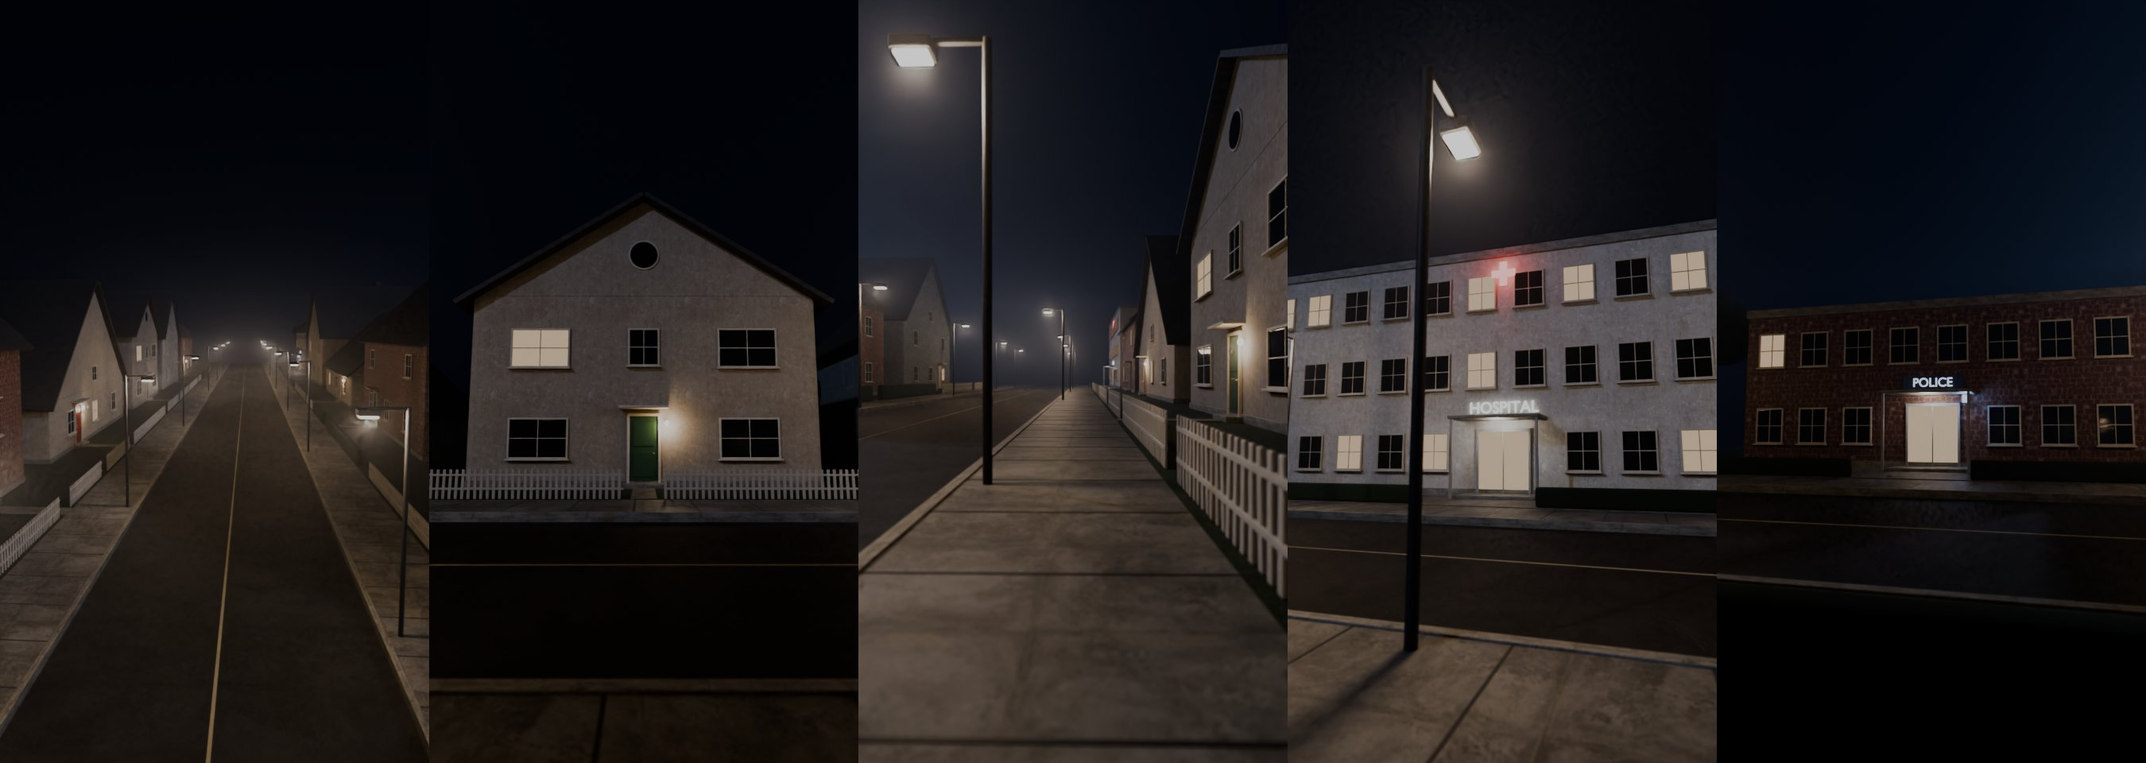
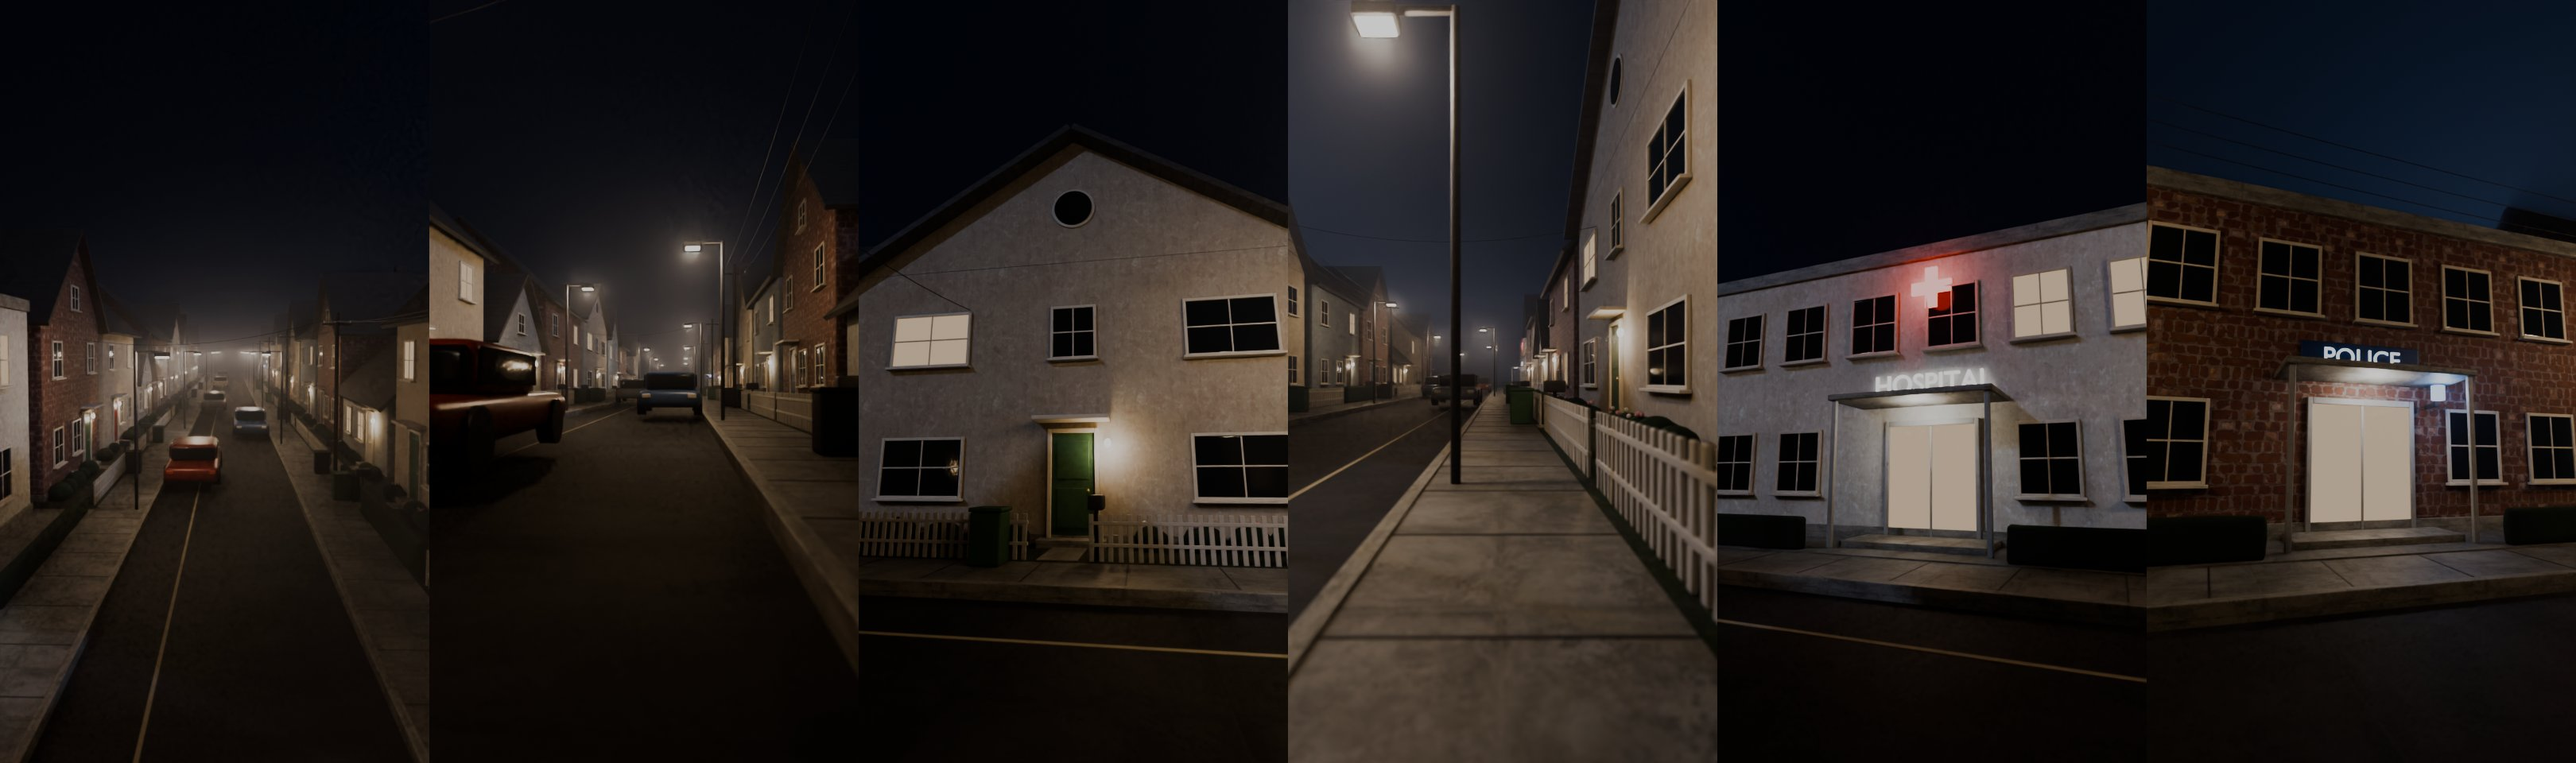
Village v2: narrow lane, smaller houses close together, parked cars, bins, mailboxes, bushes, power poles and wires, back row of rooftops; routes re-checked (57 legs)

diff --git a/YTB/horror/blender/library/sets/village/village.py b/YTB/horror/blender/library/sets/village/village.py
@@ -110,9 +110,9 @@ def front_door(fh, u, mat, porch_on, h=0.2, w=0.08):
 
 
 # ------------------------------------------------------------------ one house
-def house(name, x0, x1, side, depth, storeys, roof, facade, door_mat, lit, porch_on):
+def house(name, x0, x1, side, depth, storeys, roof, facade, door_mat, lit, porch_on, y_front=None):
     M = K.M; w = x1 - x0; cx = (x0 + x1) / 2
-    y_front = VP.FRONT_N if side == 'N' else VP.FRONT_S
+    y_front = y_front if y_front is not None else (VP.FRONT_N if side == 'N' else VP.FRONT_S)
     h = PR.holder(name, cx, y_front, 0 if side == 'N' else 180)        # local: front at y 0 facing -y, house toward +y
     E = storeys * U
     PR.part(h, name + '_body', -w / 2, w / 2, 0.0, depth, 0.0, E, facade, bevel=0.002)
@@ -137,7 +137,8 @@ def house(name, x0, x1, side, depth, storeys, roof, facade, door_mat, lit, porch
     PR.part(h, name + '_chimney', ch[0] - 0.03, ch[0] + 0.03, ch[1] - 0.03, ch[1] + 0.03, E, R + 0.08, 'brick_wall', bevel=0.002)
     # the front: a door and windows on each storey; side walls get one or two dark windows
     fh = face_holder(h, name + '_front', (0, 0, 0), 0)
-    du = VP.door_x([r[0] for r in VP.HOUSES].index(name))[1]
+    names = [r[0] for r in VP.HOUSES]
+    du = VP.door_x(names.index(name))[1] if name in names else 0.0
     front_door(fh, du, door_mat, porch_on)
     li = list(lit) + [0] * 8; k = 0
     for s in range(storeys):
@@ -267,7 +268,7 @@ def tree(x, y, s=1.0, seed=0):
 
 
 def street_lamp(x, side):
-    M = K.M; y = 0.63 if side == 'N' else -0.03; d = -1 if side == 'N' else 1
+    M = K.M; y = VP.SIDEWALK_N[0] + 0.03 if side == 'N' else VP.SIDEWALK_S[1] - 0.03; d = -1 if side == 'N' else 1
     K._to(K.cylinder('lamp_post', 0.0045, 0.42, (x, y, 0.21), mat=M['iron']))
     K.block('lamp_arm', x - 0.003, x + 0.003, min(y, y + d * 0.07), max(y, y + d * 0.07), 0.415, 0.421, M['iron'], bevel=0.001)
     K.block('lamp_head', x - 0.014, x + 0.014, y + d * 0.07 - 0.02, y + d * 0.07 + 0.02, 0.405, 0.418, M['iron'], bevel=0.003)
@@ -309,41 +310,135 @@ def street():
     K.block('centre_line', X0, X1, 0.297, 0.303, VP.ROAD_Z, VP.ROAD_Z + 0.0004, K.painted('road_paint', (0.32, 0.3, 0.22), rough=0.8), bevel=0)
 
 
+# ------------------------------------------------------------------ street life
+def car(x, y, yaw, colour, z=VP.ROAD_Z):
+    """an ordinary small parked car: body, cabin with dark glass, four wheels, lights off"""
+    M = K.M; h = PR.holder('parked_car', x, y, yaw, z=z)                  # wheels on the road, not the sidewalk level
+    PR.part(h, 'car_body', -0.21, 0.21, -0.085, 0.085, 0.022, 0.07, colour, bevel=0.018)
+    PR.part(h, 'car_cabin', -0.11, 0.08, -0.075, 0.075, 0.066, 0.122, colour, bevel=0.016)
+    for sy in (-1, 1): PR.part(h, 'car_window', -0.1, 0.07, sy * 0.0755 - 0.0012, sy * 0.0755 + 0.0012, 0.078, 0.114, 'glass_dark', bevel=0.004)
+    PR.part(h, 'car_windscreen', 0.074, 0.083, -0.068, 0.068, 0.074, 0.116, 'glass_dark', bevel=0.004)
+    PR.part(h, 'car_rear_window', -0.115, -0.106, -0.068, 0.068, 0.076, 0.114, 'glass_dark', bevel=0.004)
+    for wx in (-0.13, 0.13):
+        for sy in (-1, 1):
+            wh = K.cylinder('car_wheel', 0.03, 0.022, (0, 0, 0), rot=(math.pi / 2, 0, 0), mat=M['iron'], verts=24); K._to(wh); K.attach(wh, h)
+            wh.location = (wx, sy * 0.078, 0.03); wh.rotation_euler = (math.pi / 2, 0, 0)
+    for sy in (-1, 1):
+        PR.part(h, 'car_headlight', 0.205, 0.212, sy * 0.06 - 0.012, sy * 0.06 + 0.012, 0.048, 0.06, 'bulb_off', bevel=0.003)
+        PR.part(h, 'car_taillight', -0.212, -0.205, sy * 0.065 - 0.01, sy * 0.065 + 0.01, 0.05, 0.06, 'red', bevel=0.002)
+    return h
+
+
+def wheelie_bin(x, y, mat):
+    K.block('bin', x - 0.022, x + 0.022, y - 0.024, y + 0.024, 0.0, 0.07, K.M[mat], bevel=0.003)
+    K.block('bin_lid', x - 0.024, x + 0.024, y - 0.026, y + 0.026, 0.07, 0.076, K.M[mat], bevel=0.002)
+
+
+def mailbox(x, y):
+    K._to(K.cylinder('mailbox_post', 0.003, 0.07, (x, y, 0.035), mat=K.M['wood']))
+    K.block('mailbox', x - 0.012, x + 0.012, y - 0.02, y + 0.02, 0.07, 0.092, K.M['iron'], bevel=0.004)
+
+
+def bushes(x0, x1, y, door_x, seed):
+    r = random.Random(seed); x = x0 + 0.04
+    while x < x1 - 0.04:
+        if abs(x - door_x) > 0.08:
+            b = K.sphere('bush', r.uniform(0.022, 0.034), (x, y, 0.018), scale=(1.2, 1, 0.9), mat=K.M['hedge']); K._to(b)
+            K.add_lumps(b, 0.004, size=0.015)
+            if r.random() < 0.4:                                       # a few pale flowers
+                for _ in range(4):
+                    f = K.sphere('flower', 0.0035, (x + r.uniform(-0.02, 0.02), y + r.uniform(-0.015, 0.015), 0.038 + r.uniform(0, 0.008)),
+                                 mat=K.M[r.choice(('flower_pink', 'flower_white'))]); K._to(f)
+        x += r.uniform(0.06, 0.1)
+
+
+def wire(name, a, b, sag=0.03, n=12):
+    cu = bpy.data.curves.new(name, 'CURVE'); cu.dimensions = '3D'; cu.bevel_depth = 0.0007; cu.bevel_resolution = 1
+    sp = cu.splines.new('POLY'); sp.points.add(n)
+    for i in range(n + 1):
+        u = i / n; p = Vector(a).lerp(Vector(b), u); p.z -= sag * 4 * u * (1 - u)
+        sp.points[i].co = (p.x, p.y, p.z, 1)
+    ob = bpy.data.objects.new(name, cu); ob.data.materials.append(K.M['iron']); K._to(ob); return ob
+
+
+def power_poles(xs, y):
+    M = K.M; tops = []
+    for x in xs:
+        K._to(K.cylinder('power_pole', 0.006, 0.54, (x, y, 0.27), mat=M['bark']))
+        K.block('pole_crossarm', x - 0.003, x + 0.003, y - 0.045, y + 0.045, 0.5, 0.507, M['bark'], bevel=0.001)
+        for dy in (-0.04, 0.0, 0.04): K._to(K.cylinder('insulator', 0.0018, 0.008, (x, y + dy, 0.511), mat=M['porcelain']))
+        tops.append(x)
+    for a, b in zip(tops, tops[1:]):
+        for dy in (-0.04, 0.0, 0.04): wire('power_wire', (a, y + dy, 0.515), (b, y + dy, 0.515), sag=0.035)
+    for x in tops[1::2]:                                               # service wires across the lane to the north houses
+        wire('service_wire', (x, y + 0.04, 0.515), (x + 0.15, VP.FRONT_N + 0.05, 0.47), sag=0.05)
+
+
+def back_row(side, y_front, seed):
+    """a second row of houses behind the street (seen between the front houses and over their roofs)"""
+    r = random.Random(seed); x = -4.9
+    facades = ('brick_wall', 'plaster_cream', 'siding_grey', 'plaster_blue', 'siding_cream')
+    i = 0
+    while x < 4.6:
+        w = r.uniform(0.6, 0.8)
+        house(f'back_{side}_{i}', x, x + w, side, r.uniform(0.7, 0.8), r.choice((1, 2, 2)), r.choice(('side', 'front')),
+              r.choice(facades), 'door_black', tuple(int(r.random() < 0.15) for _ in range(5)), False, y_front=y_front)
+        x += w + r.uniform(0.06, 0.14); i += 1
+
+
 def build():
     materials()
+    M = K.M
+    for name, col in (('car_red', (0.22, 0.04, 0.035)), ('car_grey', (0.18, 0.2, 0.22)), ('car_cream', (0.5, 0.46, 0.36)),
+                      ('car_green', (0.05, 0.12, 0.08)), ('car_blue', (0.06, 0.1, 0.2)), ('bin_green', (0.04, 0.1, 0.05)),
+                      ('bin_black', (0.02, 0.02, 0.022)), ('flower_pink', (0.5, 0.25, 0.3)), ('flower_white', (0.6, 0.6, 0.55))):
+        M[name] = K.painted(name, col, rough=0.35 if name.startswith('car') else 0.7)
     before = set(bpy.data.objects)
     street()
-    for args in VP.HOUSES:
+    for i, args in enumerate(VP.HOUSES):
         house(*args)
         name, x0, x1, side = args[:4]
-        door_u = VP.door_x(VP.HOUSES.index(args))[0]
-        garden(x0 - 0.1, x1 + 0.1, side, door_u, hedge=name in ('north_5', 'south_2', 'south_4'))
-    haru_house(); garden(-0.1, 1.15, 'N', VP.HOME_AT[0] + VP.HOME_DOOR_X)
+        dx = VP.door_x(i)[0]
+        garden(x0 - 0.04, x1 + 0.04, side, dx, hedge=name in VP.HEDGED)
+        fy = VP.door_y(side) + (-0.035 if side == 'N' else 0.035)
+        bushes(x0, x1, fy, dx, seed=i)
+        sw = VP.SIDEWALK_N[1] - 0.026 if side == 'N' else VP.SIDEWALK_S[0] + 0.026
+        if i % 3 != 2:
+            wheelie_bin(dx + (0.075 if i % 2 else -0.075), sw, 'bin_green' if i % 2 else 'bin_black')
+        gy = VP.SIDEWALK_N[1] + 0.03 if side == 'N' else VP.SIDEWALK_S[0] - 0.03
+        mailbox(dx + 0.055, gy)
+    haru_house(); hx = VP.HOME_AT[0] + VP.HOME_DOOR_X
+    garden(-0.04, 1.04, 'N', hx); bushes(0.0, 1.0, VP.FRONT_N - 0.035, hx, seed=99); mailbox(hx + 0.055, VP.SIDEWALK_N[1] + 0.03)
+    wheelie_bin(hx - 0.09, VP.SIDEWALK_N[1] - 0.026, 'bin_green')
     for c in VP.CIVIC:                                                 # the hospital and the police station
-        civic(*c); forecourt(c[1] - 0.05, c[2] + 0.05, c[3], VP.civic_door_x(c[0]))
+        civic(*c); forecourt(c[1] - 0.03, c[2] + 0.03, c[3], VP.civic_door_x(c[0]))
     for x in VP.LAMPS_N: street_lamp(x, 'N')
     for x in VP.LAMPS_S: street_lamp(x, 'S')
-    for i, (tx, ty, s) in enumerate(((4.85, -0.8, 1.1), (5.3, -1.2, 1.25), (5.55, -0.65, 0.95), (-5.6, 1.6, 1.2),
-                                     (1.12, 1.9, 0.9), (-1.72, 2.1, 1.0), (2.55, 2.0, 1.1), (-1.6, -1.9, 1.0))):
+    for x, side, col in VP.CARS:                                       # parked along the curbs
+        car(x, VP.ROAD[3] - 0.1 if side == 'N' else VP.ROAD[1] + 0.1, 0 if side == 'N' else 180, col)
+    power_poles(VP.POLES_S, VP.SIDEWALK_S[0] + 0.012)
+    back_row('N', 2.15, 11); back_row('S', -1.45, 12)
+    for i, (tx, ty, s) in enumerate(((4.7, -0.55, 1.0), (5.05, -0.95, 1.2), (4.55, 1.1, 1.0), (-4.95, 1.2, 1.1), (-4.85, -0.75, 1.05),
+                                     (1.05, 1.95, 0.9), (-1.3, 1.75, 1.0), (2.9, 1.8, 1.1), (-2.5, -1.3, 0.95), (0.55, -1.3, 1.0))):
         tree(tx, ty, s, seed=i)
-    # night: a cold low moon (sun lamp), dark blue sky, a thin haze down the street
+    # night: a cold moon (sun lamp), dark blue sky, a thin haze down the lane
     K.world((0.012, 0.022, 0.06), 0.3)
     sun = bpy.data.lights.new('moon_sun', 'SUN'); sun.energy = 1.0; sun.color = (0.5, 0.62, 1.0); sun.angle = math.radians(1.5)
     so = bpy.data.objects.new('moon_sun', sun); K._to(so, 'Lights'); so.rotation_euler = (math.radians(62), 0, math.radians(-35))
     hz = bpy.data.materials.new('street_haze'); hz.use_nodes = True; hn = hz.node_tree.nodes
     hn.remove(hn['Principled BSDF']); pv = hn.new('ShaderNodeVolumePrincipled')
-    pv.inputs['Density'].default_value = 0.06; pv.inputs['Anisotropy'].default_value = 0.5; pv.inputs['Color'].default_value = (0.75, 0.82, 1.0, 1)
+    pv.inputs['Density'].default_value = 0.08; pv.inputs['Anisotropy'].default_value = 0.5; pv.inputs['Color'].default_value = (0.75, 0.82, 1.0, 1)
     hz.node_tree.links.new(pv.outputs[0], hn['Material Output'].inputs['Volume'])
-    bpy.ops.mesh.primitive_cube_add(size=1, location=(0.5, 0.3, 0.6)); b = bpy.context.object; b.name = 'haze'
-    b.location.x = 0.0; b.scale = (12.0, 5.0, 1.25); b.data.materials.append(hz); K._to(b)
+    bpy.ops.mesh.primitive_cube_add(size=1, location=(0.0, 0.2, 0.6)); b = bpy.context.object; b.name = 'haze'
+    b.scale = (11.0, 4.5, 1.25); b.data.materials.append(hz); K._to(b)
     bpy.context.scene.cycles.volume_bounces = 0; bpy.context.scene.cycles.volume_step_rate = 4.0
     # camera marks
-    K.mark('street_overview', (-3.6, 0.25, 0.55), (0.9, 0.55, 0.12), lens=24)
-    K.mark('street_level', (-2.9, 0.12, 0.09), (1.5, 0.55, 0.12), lens=24)
-    K.mark('haru_house', (0.5, -0.25, 0.12), (0.5, 1.08, 0.3), lens=22)
-    K.mark('sidewalk', (1.7, 0.72, 0.1), (-1.5, 0.66, 0.08), lens=24)
-    K.mark('hospital', (-3.75, -0.32, 0.12), (-4.18, 1.08, 0.36), lens=22)
-    K.mark('police', (3.45, 0.95, 0.12), (3.78, -0.5, 0.28), lens=22)
+    K.mark('street_overview', (-4.6, 0.2, 0.42), (0.5, 0.35, 0.14), lens=26)
+    K.mark('street_level', (-3.3, 0.06, 0.075), (1.0, 0.4, 0.13), lens=24)
+    K.mark('haru_house', (0.62, -0.07, 0.11), (0.5, 0.72, 0.3), lens=20)
+    K.mark('sidewalk', (1.5, 0.49, 0.09), (-1.5, 0.5, 0.09), lens=24)
+    K.mark('hospital', (-3.6, -0.05, 0.11), (-3.9, 0.72, 0.28), lens=22)
+    K.mark('police', (3.25, 0.4, 0.1), (3.02, -0.3, 0.24), lens=22)
     return [o for o in bpy.data.objects if o not in before]
 
 

diff --git a/YTB/horror/blender/library/sets/village/village_plan.py b/YTB/horror/blender/library/sets/village/village_plan.py
@@ -1,59 +1,72 @@
-"""Haru's village: one quiet street of ordinary houses (metres at 1:10; +x along the street, +y north).
+"""Haru's village (version 2, denser): a narrow village lane of small houses close together (metres at 1:10; +x
+along the street, +y north).
 
-    south houses (face north)   y -1.62 .. -0.50
-    south gardens               y -0.50 .. -0.20
-    south sidewalk              y -0.20 .. 0.0   (raised 1.5 cm, curb at y 0)
-    road                        y  0.0  .. 0.60  (z -0.015)
-    north sidewalk              y  0.60 .. 0.80
-    north gardens               y  0.80 .. 1.08
-    north houses (face south)   y  1.08 .. (back)
+    south back row              y < -1.25        (rooftops behind the street)
+    south houses (face north)   y -1.10 .. -0.30
+    south gardens               y -0.30 .. -0.14
+    south sidewalk              y -0.14 .. 0.0   (raised 1.5 cm, curb at y 0)
+    road (a lane, cars parked
+    along the north curb)       y  0.0  .. 0.42  (z -0.015)
+    north sidewalk              y  0.42 .. 0.56
+    north gardens               y  0.56 .. 0.72
+    north houses (face south)   y  0.72 .. (back)
 
-Haru's house is the big home (../home) placed with its front wall on y = 1.08 and its left wall on x = 0: build it
-there with home.build() and move it by HOME_AT to walk from the street through her front door into the real rooms.
+Haru's house is the big home (../home): its front wall on y = 0.72, its left wall on x = 0. It is the biggest, oldest
+house on the street; build home.build() and move it by HOME_AT to walk from the street into the real rooms.
 """
+import random
+
 UP = 0.26                       # one storey
-ROAD = (-3.4, 0.0, 4.4, 0.60)   # x0, y0, x1, y1
+ROAD = (-5.0, 0.0, 5.0, 0.42)   # x0, y0, x1, y1
 ROAD_Z = -0.015
-SIDEWALK_N = (0.60, 0.80)
-SIDEWALK_S = (-0.20, 0.0)
-FRONT_N, FRONT_S = 1.08, -0.50  # the house fronts
+SIDEWALK_N = (0.42, 0.56)
+SIDEWALK_S = (-0.14, 0.0)
+FRONT_N, FRONT_S = 0.72, -0.30  # the house fronts
 HOME_AT = (0.0, FRONT_N)        # where the big home's origin goes
 HOME_DOOR_X = 0.50              # the middle of her front door
 
+_r = random.Random(5)
+def _lit(n, p=0.3): return tuple(int(_r.random() < p) for _ in range(n))
+
 # houses: (name, x0, x1, side, depth, storeys, roof, facade, door colour, lit windows, porch light on)
-# roof 'side' = ridge along the street (gable ends at the sides), 'front' = gable facing the street
-HOUSES = [
-    ('north_1', -2.90, -1.80, 'N', 0.95, 2, 'side', 'brick_wall', 'door_green', (1, 0, 0, 1), False),
-    ('north_2', -1.55, -0.30, 'N', 1.00, 1, 'front', 'plaster_cream', 'door_red', (0, 1, 0), True),
-    ('north_4', 1.30, 2.35, 'N', 0.95, 2, 'front', 'siding_grey', 'door_blue', (0, 0, 0, 0), False),
-    ('north_5', 2.65, 3.90, 'N', 1.05, 2, 'side', 'brick_wall', 'door_black', (0, 1, 1, 0), True),
-    ('south_1', -2.95, -1.75, 'S', 1.00, 2, 'front', 'plaster_blue', 'door_white', (0, 0, 1, 0), False),
-    ('south_2', -1.40, -0.25, 'S', 0.95, 2, 'side', 'brick_wall', 'door_green', (0, 0, 0, 0), False),
-    ('south_3', 0.15, 1.35, 'S', 1.05, 1, 'side', 'siding_cream', 'door_red', (1, 0, 0), True),
-    ('south_4', 1.65, 2.85, 'S', 1.00, 2, 'front', 'plaster_cream', 'door_black', (0, 0, 0, 1), False),
+# roof 'side' = ridge along the street, 'front' = gable facing the street
+_N = [(-3.10, -2.45, 2, 'front', 'brick_wall', 'door_green'), (-2.37, -1.67, 2, 'side', 'plaster_cream', 'door_red'),
+      (-1.59, -0.99, 1, 'front', 'siding_grey', 'door_blue'), (-0.91, -0.10, 2, 'side', 'brick_wall', 'door_black'),
+      (1.10, 1.75, 2, 'front', 'plaster_blue', 'door_white'), (1.83, 2.48, 2, 'side', 'brick_wall', 'door_green'),
+      (2.56, 3.26, 1, 'side', 'siding_cream', 'door_red'), (3.34, 3.98, 2, 'front', 'plaster_cream', 'door_black')]
+_S = [(-4.30, -3.65, 2, 'front', 'brick_wall', 'door_red'), (-3.57, -2.92, 2, 'side', 'plaster_cream', 'door_green'),
+      (-2.84, -2.14, 1, 'side', 'siding_grey', 'door_white'), (-2.06, -1.41, 2, 'front', 'brick_wall', 'door_blue'),
+      (-1.33, -0.63, 2, 'side', 'plaster_blue', 'door_black'), (-0.55, 0.10, 2, 'front', 'siding_cream', 'door_red'),
+      (0.18, 0.88, 1, 'side', 'brick_wall', 'door_green'), (0.96, 1.61, 2, 'front', 'plaster_cream', 'door_white'),
+      (1.69, 2.39, 2, 'side', 'brick_wall', 'door_black'), (3.66, 4.31, 2, 'front', 'plaster_blue', 'door_green')]
+HOUSES = []
+for i, (x0, x1, st, roof, fac, door) in enumerate(_N):
+    HOUSES.append((f'north_{i + 1}', x0, x1, 'N', _r.uniform(0.72, 0.85), st, roof, fac, door, _lit(2 * st + 1), _r.random() < 0.35))
+for i, (x0, x1, st, roof, fac, door) in enumerate(_S):
+    HOUSES.append((f'south_{i + 1}', x0, x1, 'S', _r.uniform(0.72, 0.85), st, roof, fac, door, _lit(2 * st + 1), _r.random() < 0.35))
+HEDGED = {'north_4', 'south_2', 'south_5', 'south_9'}
+
+# the hospital and the police station: (name, x0, x1, side, depth, storeys, facade, door x offset)
+CIVIC = [
+    ('hospital', -4.60, -3.20, 'N', 0.95, 2, 'plaster_pale', 0.0),
+    ('police', 2.48, 3.56, 'S', 0.85, 2, 'brick_wall', 0.0),
 ]
-CORNER_TREES = (4.6, 5.6)       # past the police station on the south side: a few trees
-LAMPS_N = (-4.6, -3.05, -2.05, -0.65, 1.22, 2.55, 4.05)     # street lamps on the north sidewalk, between the gardens (none at a door)
-LAMPS_S = (-3.9, -2.7, -1.25, 0.0, 1.5, 3.0, 4.75)     # and the south sidewalk
+LAMPS_N = (-3.16, -1.63, 1.05, 2.52, 4.1)       # on the north curb, in the gaps between houses
+LAMPS_S = (-4.4, -2.1, -0.59, 0.92, 2.43, 3.62)  # on the south curb
+POLES_S = (-4.6, -2.88, -1.37, 0.14, 1.65, 3.6)  # wooden power poles at the back of the south sidewalk
+CARS = [(-2.75, 'N', 'car_red'), (-0.55, 'N', 'car_grey'), (1.95, 'N', 'car_cream'), (3.75, 'N', 'car_green'), (-1.75, 'S', 'car_blue')]
+CROSS_X = (-3.95, -1.15, 0.5, 2.95)              # where she crosses the road (clear of the parked cars)
 
 
 def door_x(i):
-    """world x of house i's front door (the doors alternate left and right of the middle; south houses face north,
-    so their local left is world right)"""
+    """world x of house i's front door (left or right of the middle, alternating), and its local offset"""
     name, x0, x1, side = HOUSES[i][:4]
-    du = (x1 - x0) * 0.22 * (1 if i % 2 == 0 else -1)
+    du = (x1 - x0) * 0.2 * (1 if i % 2 == 0 else -1)
     return (x0 + x1) / 2 + (du if side == 'N' else -du), du
 
 
 def door_y(side):
     return FRONT_N if side == 'N' else FRONT_S
-
-
-# the hospital and the police station: (name, x0, x1, side, depth, storeys, facade, door x offset)
-CIVIC = [
-    ('hospital', -5.15, -3.20, 'N', 1.30, 3, 'plaster_pale', 0.0),
-    ('police', 3.10, 4.45, 'S', 1.10, 2, 'brick_wall', 0.0),
-]
 
 
 def civic_door_x(name):

diff --git a/YTB/horror/blender/library/sets/village/village_nav.py b/YTB/horror/blender/library/sets/village/village_nav.py
@@ -10,8 +10,8 @@ import heapq
 from mathutils import Vector
 import village_plan as VP
 
-WALK_N, WALK_S = 0.705, -0.10                # the middle of each sidewalk (clear of the lamp posts at the curb)
-CROSS_X = (-3.75, -2.3, 0.62, 2.2, 3.55)     # where she crosses the road
+WALK_N, WALK_S = 0.49, -0.07                 # the middle of each sidewalk (clear of the lamps, bins and poles)
+CROSS_X = VP.CROSS_X                         # where she crosses the road (clear of the parked cars)
 P, EDGES = {}, []
 
 
@@ -31,7 +31,7 @@ for i, h in enumerate(VP.HOUSES):
     x, _ = VP.door_x(i); gates[side].append((name, x))
 gates['N'].append(('haru', VP.HOME_AT[0] + VP.HOME_DOOR_X))
 for c in VP.CIVIC: gates[c[3]].append((c[0], VP.civic_door_x(c[0])))          # the hospital, the police station
-ends = (-5.4, 5.4)
+ends = (-4.9, 4.9)
 for side in ('N', 'S'):
     xs = [x for _, x in gates[side]] + list(CROSS_X) + list(ends)
     at = _sidewalk(side, xs)
